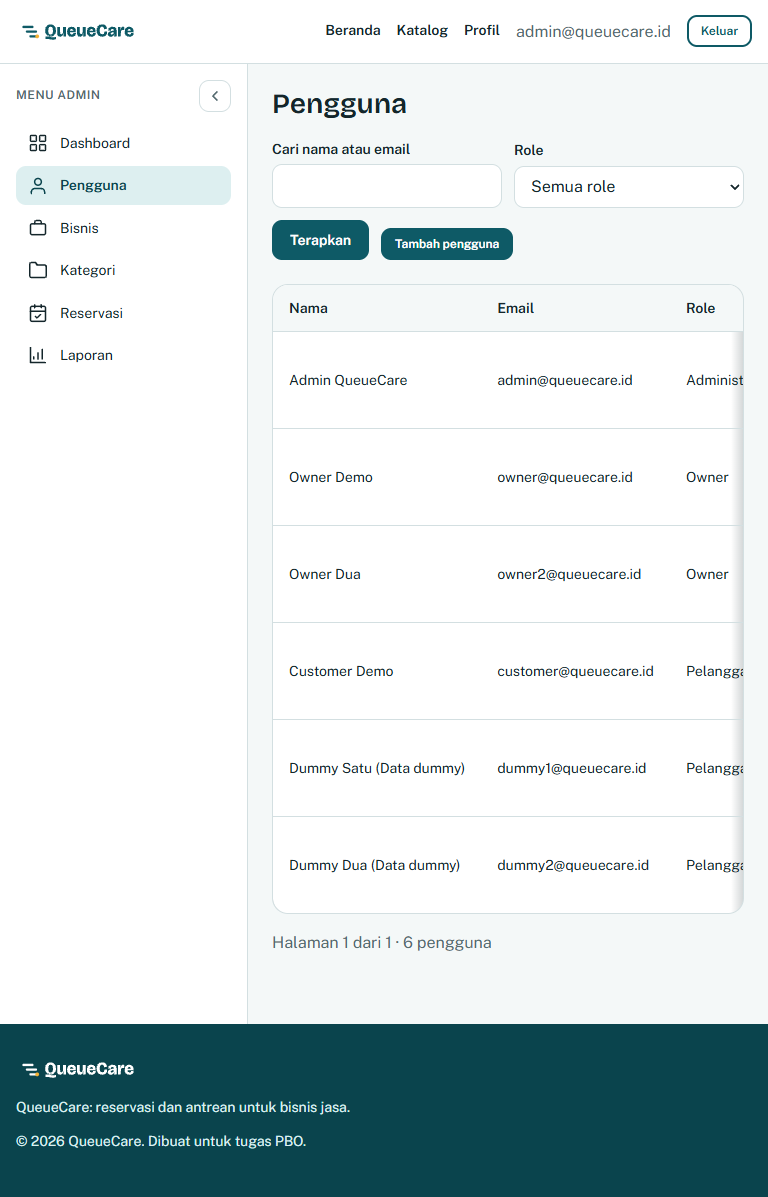
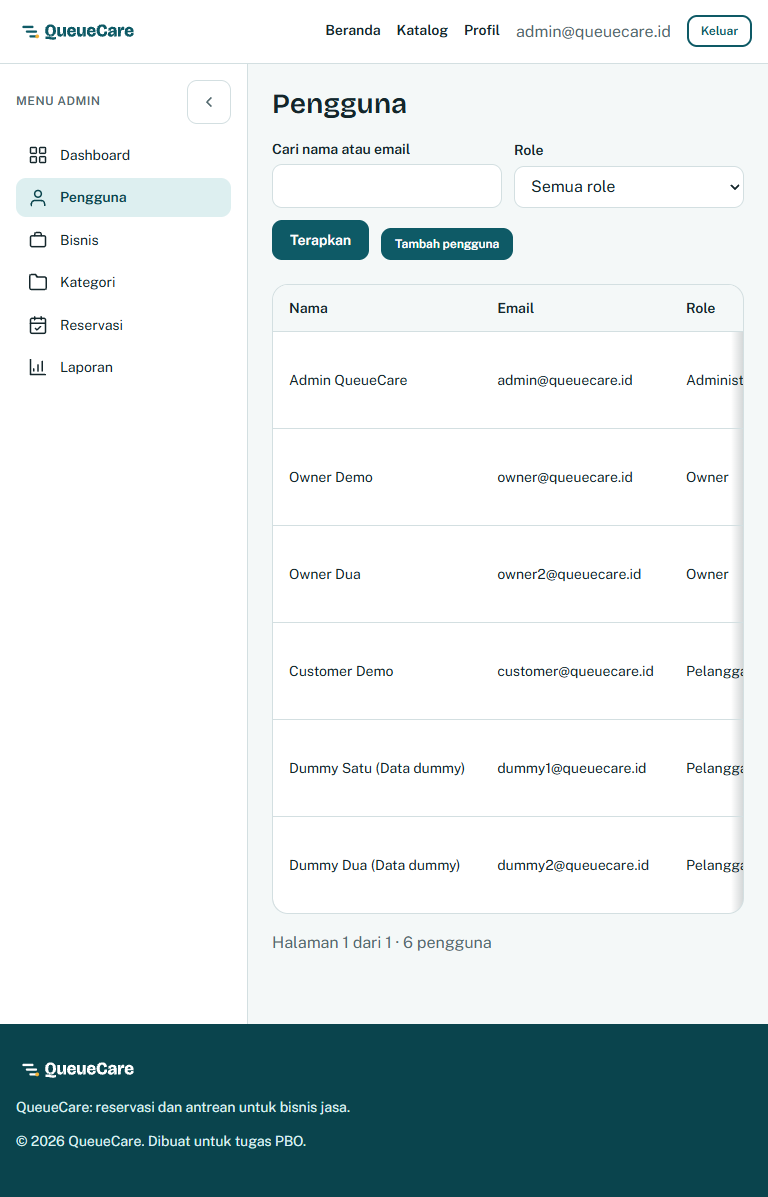
fix(ui): target sentuh tombol lipat sidebar 44px juga di lebar tablet 768

Changed region(s): [[0.0, 0.0618, 0.3125, 0.3091], [0.25, 0.0618, 0.2812, 0.0927]]

diff --git a/src/main/resources/static/css/components.css b/src/main/resources/static/css/components.css
@@ -115,7 +115,7 @@ dialog.modal:not([open]) { display: none; }
 .sidebar__kepala { display: flex; align-items: center; justify-content: space-between; gap: var(--jarak-2); margin-bottom: var(--jarak-3); }
 .sidebar__kepala .sidebar__judul { margin: 0; }
 /* Tombol lipat: ikon chevron kecil, bukan pill teks. */
-.sidebar__lipat { display: inline-flex; align-items: center; justify-content: center; width: 32px; height: 32px; padding: 0; background: transparent; border: 1px solid var(--warna-batas); border-radius: var(--radius-md); color: var(--warna-teks-redup); cursor: pointer; }
+.sidebar__lipat { display: inline-flex; align-items: center; justify-content: center; width: 44px; height: 44px; padding: 0; background: transparent; border: 1px solid var(--warna-batas); border-radius: var(--radius-md); color: var(--warna-teks-redup); cursor: pointer; }
 .sidebar__lipat:hover { background: var(--warna-primer-lembut); border-color: var(--warna-primer-lembut); color: var(--warna-primer-gelap); }
 .sidebar__lipat svg { width: 18px; height: 18px; transition: transform .15s ease; }
 .dash--lipat .sidebar__lipat svg { transform: rotate(180deg); }
